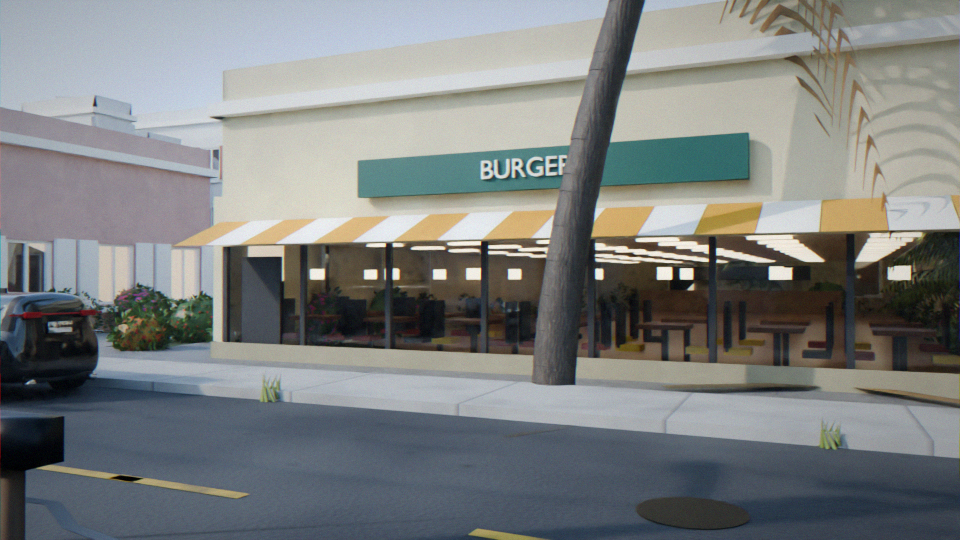
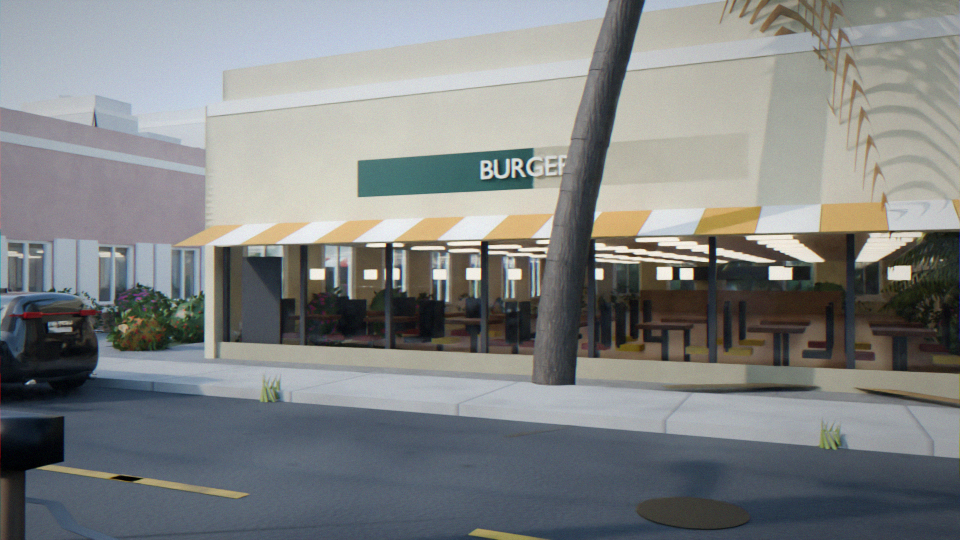
Furnished interiors in every home, apartment and upper floor (real wall openings, floor slabs, living/kitchen/dining/bedroom furniture, lights, clear window glass); park path flush with the lawn
Claude-Session: https://claude.ai/code/session_01PWmpu53kThn7KFGp88wUgC

diff --git a/costa-verde/tools/blender/detail_town.py b/costa-verde/tools/blender/detail_town.py
@@ -385,6 +385,100 @@ def interior(m, poly, kind, rng, ceil):
         m.box("wood", (x1 - 5, 2.0, z0 + 3.5), U, 6, 4, 2.2, (230, 230, 226))  # checkout
 
 
+HOLLOW = ("house", "stucco", "shack", "deco", "midrise", "campus")  # styles built as real walls with openings and furnished floors
+
+
+def skin(m, e, y0_, y1_, openings, wall_col, ext=0.9):
+    """Wall of one edge between y0_ and y1_ built from panels around openings [(centre, width, bottom, top)], 0.9 thick
+    outward from the wall line; ends run past the corners so neighbouring walls close up."""
+    a, _, u, n, L = e
+    cuts = sorted({y0_, y1_} | {max(y0_, min(y1_, v)) for c_, w_, bt, tp in openings for v in (bt, tp)})
+    for ya, yb_ in zip(cuts, cuts[1:]):
+        if yb_ - ya < 0.05:
+            continue
+        gaps = sorted((c_ - w_ / 2, c_ + w_ / 2) for c_, w_, bt, tp in openings if bt <= ya + 0.01 and tp >= yb_ - 0.01)
+        x = -ext
+        for g0, g1 in gaps + [(L + ext, L + ext)]:
+            if g0 > x + 0.05:
+                mid = (x + g0) / 2
+                m.box("wall", (a[0] + u[0] * mid + n[0] * 0.45, (ya + yb_) / 2, a[1] + u[1] * mid + n[1] * 0.45), u, g0 - x, yb_ - ya, 0.9, wall_col)
+            x = max(x, g1)
+
+
+FURN = [(150, 120, 90), (90, 100, 120), (200, 190, 170), (60, 70, 80), (170, 80, 60), (110, 130, 100)]
+
+
+def furnish(m, poly, yb, height, kind, rng):
+    """One floor of a home or office: floor, ceiling light, furniture along the walls and in the middle."""
+    xs, zs = [p[0] for p in poly], [p[1] for p in poly]
+    x0, x1, z0, z1 = min(xs) + 1.5, max(xs) - 1.5, min(zs) + 1.5, max(zs) - 1.5
+    if x1 - x0 < 6 or z1 - z0 < 6:
+        return
+    ok = lambda x, z: inside(poly, x, z) and x0 < x < x1 and z0 < z < z1  # noqa: E731
+    U = (1, 0)
+    m.face("floor", [(x, yb + 0.35, z) for x, z in poly][::-1], rng.choice([(150, 110, 80), (200, 196, 186), (120, 96, 72), (210, 206, 196)]))
+    m.face("trim", [(x, yb + height - 0.2, z) for x, z in poly], (238, 236, 230))  # ceiling
+    for gx in range(int(x0) + 4, int(x1) - 2, 12):
+        for gz in range(int(z0) + 4, int(z1) - 2, 12):
+            if ok(gx, gz):
+                m.box("lamp", (gx, yb + height - 0.45, gz), U, 1.4, 0.2, 1.4)  # ceiling light
+    y = yb + 0.35
+    cx, cz = (x0 + x1) / 2, (z0 + z1) / 2
+    if kind == "office":
+        for x in range(int(x0) + 3, int(x1) - 2, 8):
+            for z in range(int(z0) + 3, int(z1) - 2, 7):
+                if ok(x, z):
+                    m.box("wood", (x, y + 2.9, z), U, 4.6, 0.3, 2.4, (200, 196, 186))
+                    m.box("door", (x, y + 4.2, z + 0.6), U, 1.8, 1.3, 0.15, (20, 20, 22))
+                    m.box("fabric", (x, y + 2.0, z - 1.8), U, 1.7, 2.4, 1.7, (30, 30, 34))
+        return
+    # living area: sofa facing a TV unit, coffee table, rug
+    if ok(cx - 4, z0 + 2):
+        col = rng.choice(FURN)
+        m.box("fabric", (cx - 4, y + 1.2, z0 + 2.2), U, 7, 2.4, 2.6, col)  # sofa seat
+        m.box("fabric", (cx - 4, y + 2.6, z0 + 1.3), U, 7, 2.8, 0.8, col)  # back
+        m.box("fabric", (cx - 4, y + 0.05, z0 + 5.5), U, 8, 0.1, 5, rng.choice(FURN))  # rug
+        m.box("wood", (cx - 4, y + 1.0, z0 + 5.5), U, 3.5, 0.3, 2, (110, 80, 60))  # coffee table
+        if ok(cx - 4, z0 + 9):
+            m.box("wood", (cx - 4, y + 1.2, z0 + 9.2), U, 6, 2.4, 1.4, (60, 50, 44))  # TV unit
+            m.box("door", (cx - 4, y + 4.0, z0 + 9.3), U, 5, 3, 0.2, (15, 15, 17))  # TV
+    # dining table with chairs
+    if ok(cx + 5, cz):
+        m.box("wood", (cx + 5, y + 2.6, cz), U, 5, 0.3, 3, (140, 100, 70))
+        for dx in (-1.6, 1.6):
+            for dz in (-2.3, 2.3):
+                m.box("wood", (cx + 5 + dx, y + 1.5, cz + dz), U, 1.4, 0.3, 1.4, (120, 90, 64))
+                m.box("wood", (cx + 5 + dx, y + 2.6, cz + dz * 1.25), U, 1.4, 2.2, 0.25, (120, 90, 64))
+    # kitchen run along the back wall with upper cabinets and a fridge
+    for x in range(int(x0) + 1, int(min(x1, x0 + 14)), 3):
+        if ok(x + 1.5, z1 - 1.2):
+            m.box("wood", (x + 1.5, y + 1.6, z1 - 1.2), U, 3, 3.2, 2.2, (236, 234, 228))
+            m.box("metal", (x + 1.5, y + 3.25, z1 - 1.2), U, 3, 0.15, 2.3, (60, 60, 64))  # counter top
+            m.box("wood", (x + 1.5, y + 6.4, z1 - 0.8), U, 3, 2.4, 1.4, (236, 234, 228))
+    if ok(x0 + 16, z1 - 1.4):
+        m.box("metal", (x0 + 16, y + 3.6, z1 - 1.4), U, 3, 7.2, 2.6, (210, 212, 214))  # fridge
+    # bed with nightstands and a wardrobe in the far corner
+    bx, bz = x1 - 5, cz + 2
+    if ok(bx, bz) and ok(bx, bz + 5):
+        m.box("wood", (bx, y + 0.9, bz), U, 5.6, 1.8, 7, (120, 96, 72))
+        m.box("fabric", (bx, y + 2.0, bz), U, 5.4, 0.6, 6.8, (236, 236, 230))  # mattress
+        m.box("fabric", (bx, y + 2.4, bz + 3.0), U, 4.8, 0.5, 1.2, (250, 250, 246))  # pillows
+        m.box("fabric", (bx, y + 2.35, bz - 1.0), U, 5.6, 0.25, 4.4, rng.choice(FURN))  # duvet
+        m.box("wood", (bx, y + 3.4, bz + 3.6), U, 5.8, 3.4, 0.4, (100, 80, 60))  # headboard
+        for side in (-1, 1):
+            m.box("wood", (bx + side * 3.6, y + 1.1, bz + 3), U, 1.4, 2.2, 1.4, (100, 80, 60))
+    if ok(x1 - 1.4, z0 + 4):
+        m.box("wood", (x1 - 1.4, y + 3.8, z0 + 4), U, 2.2, 7.6, 4.5, (200, 190, 170))  # wardrobe
+    for _ in range(rng.randint(1, 3)):  # plants and a floor lamp
+        px, pz = rng.uniform(x0 + 1, x1 - 1), rng.uniform(z0 + 1, z1 - 1)
+        if ok(px, pz):
+            m.box("door", (px, y + 0.8, pz), U, 1.2, 1.6, 1.2, (150, 90, 60))
+            m.box("fabric", (px, y + 2.6, pz), U, 2.0, 2.4, 2.0, (60, 110, 50))
+    if ok(x0 + 2, z0 + 2):
+        m.box("pole", (x0 + 2, y + 3, z0 + 2), U, 0.2, 6, 0.2)
+        m.box("lamp", (x0 + 2, y + 6.2, z0 + 2), U, 1.2, 0.8, 1.2)
+
+
 def building(idx, b):
     rng = random.Random(idx)
     c, s = math.cos(math.radians(b["rot"])), math.sin(math.radians(b["rot"]))
@@ -416,19 +510,30 @@ def building(idx, b):
             continue
         shop_part = style in ("stucco", "shack") and pi == 0 and y0 == 0 and h >= 11 and any(e[3][1] < -0.7 for e in edges(poly))
         CEIL = 10.0
-        if shop_part:  # ground floor is a real room open to the street through glass; walls only on the other sides
-            m.prism("wall", poly, CEIL, y0 + h, wall_col, top=False)
-            for e in edges(poly):
-                if e[3][1] >= -0.7:
-                    (ax_, az_), (bx_, bz_) = e[0], e[1]
-                    m.face("wall", [(ax_, -3, az_), (bx_, -3, bz_), (bx_, CEIL, bz_), (ax_, CEIL, az_)], wall_col)
+        hollow = style in HOLLOW
+        if shop_part:  # ground floor is a real room open to the street through glass
             interior(m, poly, interior_kind(b.get("use")), rng, CEIL)
-        else:
+        if not hollow:
             m.prism("wall", poly, y0 - 3, y0 + h, wall_col, top=False)
+        else:  # walls come from skins (with real openings); short edges and the footing get plain wall here
+            for i_ in range(len(poly)):
+                (ax_, az_), (bx_, bz_) = poly[i_], poly[(i_ + 1) % len(poly)]
+                if math.dist((ax_, az_), (bx_, bz_)) < 3:
+                    m.face("wall", [(ax_, y0 - 3, az_), (bx_, y0 - 3, bz_), (bx_, y0 + h, bz_), (ax_, y0 + h, az_)], wall_col)
+            for e in edges(poly):
+                skin(m, e, y0 - 3, y0, [], wall_col)
         if y0 == 0 and style != "tower":  # base course: a slightly proud, darker plinth
             big = [(x * (1 + 0.6 / max(1, abs(x))) if abs(x) > 0.1 else x, z * (1 + 0.6 / max(1, abs(z))) if abs(z) > 0.1 else z) for x, z in poly]
             m.prism("wall", big, -1, 1.8, tuple(int(v * 0.72) for v in wall_col), top=False)
         floors = max(1, int(h // fh))
+        if hollow:  # furnish every floor (shop ground floors are furnished as shops above)
+            for f in range(floors):
+                yb_f = y0 + f * fh
+                top_f = (y0 + h) if f == floors - 1 else yb_f + fh
+                if f > 0 or not shop_part:
+                    if f > 0:
+                        m.prism("concrete", poly, yb_f - 0.4, yb_f + 0.3, top=True)  # floor slab
+                    furnish(m, poly, yb_f, top_f - yb_f, "office" if style == "campus" else "home", rng)
         for e in edges(poly):
             a, _, u, n, L = e
             street = n[1] < -0.7  # local -z faces the street
@@ -455,6 +560,7 @@ def building(idx, b):
                     dx = L / 2 - 4
                     m.box("door", (cx + u[0] * dx + n[0] * 0.1, 4.2, cz + u[1] * dx + n[1] * 0.1), u, 3.6, 8.2, 0.25, (40, 40, 42))
                     m.box("wall", (cx + n[0] * 0.3, (CEIL + 9.1) / 2, cz + n[1] * 0.3), u, L, CEIL - 9.1, 0.8, wall_col)  # sign band
+                    skin(m, e, CEIL, (y0 + h) if floors == 1 else fh, [], wall_col)  # wall between the shop ceiling and the floor above
                     acol = rng.choice(AWNING)
                     for k in range(max(1, int(L // 3))):
                         t = (k + 0.5) / max(1, int(L // 3))
@@ -463,22 +569,21 @@ def building(idx, b):
                         m.face("awning", [(x - u[0] * 1.5 + n[0] * 0.2, 11, z - u[1] * 1.5 + n[1] * 0.2), (x + u[0] * 1.5 + n[0] * 0.2, 11, z + u[1] * 1.5 + n[1] * 0.2),
                                           (x + u[0] * 1.5 + n[0] * 5, 9, z + u[1] * 1.5 + n[1] * 5), (x - u[0] * 1.5 + n[0] * 5, 9, z - u[1] * 1.5 + n[1] * 5)], col)
                     continue
-                house_front = style == "house" and street and f == 0
-                if not house_front:  # outer skin 0.9 proud: spandrels below/above the windows and piers between them
-                    sk = lambda d0, d1, y_a, y_b: m.box("wall", (a[0] + u[0] * (d0 + d1) / 2 + n[0] * 0.45, (y_a + y_b) / 2,  # noqa: E731
-                                                              a[1] + u[1] * (d0 + d1) / 2 + n[1] * 0.45), u, d1 - d0, y_b - y_a, 0.9, wall_col)
-                    top_y = min(yb + fh, y0 + h)
-                    sk(0, L, yb, yb + sill)
-                    if top_y > yb + sill + wh:
-                        sk(0, L, yb + sill + wh, top_y)
-                    prev = 0.0
+                top_y = (y0 + h) if f == floors - 1 else min(yb + fh, y0 + h)
+                if True:  # outer skin 0.9 proud with real openings for windows, doors and garages
+                    ops = []
                     for j in range(nb):
                         wc = L * (j + 0.5) / nb  # window centre (not `c`: the transform closes over the rotation's cos)
-                        if wc - ww / 2 - 0.6 > prev:
-                            sk(prev, wc - ww / 2 - 0.6, yb + sill, yb + sill + wh)
-                        prev = wc + ww / 2 + 0.6
-                    if L > prev:
-                        sk(prev, L, yb + sill, yb + sill + wh)
+                        is_door = style == "house" and street and pi == 0 and j == nb // 2 and f == 0
+                        is_gar = style == "house" and street and pi == 1 and f == 0 and b.get("type") in ("ranch", "l_ranch")
+                        if is_gar:
+                            if j == 0:
+                                ops.append((L / 2, min(L - 3, 16) + 0.6, yb, yb + 9.2))
+                        elif is_door:
+                            ops.append((wc, 4.2, yb, yb + 8.4))
+                        else:
+                            ops.append((wc, ww + 1.2, yb + sill, yb + sill + wh))
+                    skin(m, e, yb, top_y, ops, wall_col)
                 for j in range(nb):
                     along = L * (j + 0.5) / nb
                     if style in ("stucco", "midrise") and f > 0 and rng.random() < 0.12:  # window AC unit

diff --git a/costa-verde/tools/blender/realism.py b/costa-verde/tools/blender/realism.py
@@ -1229,7 +1229,7 @@ def photo_upgrade():
     gravel_roof = photo("photo_roof_flat", "Gravel043", 8, tint=(170, 166, 158))[0]
     asph = photo("photo_asphalt", "Asphalt031", 22, bump=0.4)[0]
     conc = photo("photo_concrete", "Concrete034", 16, bump=0.3)[0]
-    swaps = {"real_wall": walls, "real_roof": roof, "real_concrete": conc, "real_asphalt": asph, "real_glass": mat_window_interior(),
+    swaps = {"real_wall": walls, "real_roof": roof, "real_concrete": conc, "real_asphalt": asph, "real_glass": mat_window_glass(),
              "real_roof_flat": gravel_roof}
     for o in bpy.data.objects:
         if o.type == "MESH":
@@ -1314,7 +1314,13 @@ def landcover(detailed, street_area, zone, gy, rng, palms, oaks, ground=None):
     _slab("stalls", unary_union(stalls).intersection(unary_union(paved)), gy + 0.32, gy + 0.36, mat_paint("stall_paint", (236, 236, 230)))
     _slab("mulch", unary_union(mulch), gy - 0.5, gy + 0.18, photo("photo_mulch", "Ground037", 6, tint=(120, 84, 60))[0])
     _slab("dirt", unary_union(dirt), gy - 0.5, gy + 0.08, photo("photo_dirt", "Ground037", 10, tint=(190, 170, 140))[0])
-    _slab("paths", unary_union(paths) if paths else Polygon(), gy - 0.5, gy + 0.2, bpy.data.materials.get("photo_concrete") or mat_concrete())
+    # park footpath flush with the lawn (a few hundredths above the soil, below the grass blades)
+    pmat = bpy.data.materials.get("photo_concrete") or mat_concrete()
+    for k, pth in enumerate(paths):  # each path at the real ground height along it
+        pts = list(pth.exterior.coords) if hasattr(pth, "exterior") else [c for g in pth.geoms for c in g.exterior.coords]
+        hs = [ground(x, z) for x, z in pts] if ground else [gy]
+        top = sum(hs) / len(hs) + 0.15  # average ground: flush within the lawn's small bumps
+        _slab(f"path{k}", pth, top - 1.2, top, pmat)
     fence_mat = photo("photo_fence", "WoodSiding011", 6, tint=(190, 160, 120))[0]
     verts, faces = [], []
     for fl in fences:
@@ -1690,4 +1696,15 @@ def mat_clear_glass():
     b.inputs["Transmission Weight"].default_value = 1.0
     b.inputs["Roughness"].default_value = 0.02
     b.inputs["IOR"].default_value = 1.45
+    return m
+
+
+def mat_window_glass():
+    """House and apartment windows: clear, slightly tinted glass with reflections, so the furnished rooms show."""
+    m, nt, b = _nodes("real_window_glass")
+    b.inputs["Base Color"].default_value = (0.75, 0.82, 0.85, 1)
+    b.inputs["Transmission Weight"].default_value = 0.92
+    b.inputs["Roughness"].default_value = 0.02
+    b.inputs["IOR"].default_value = 1.5
+    b.inputs["Coat Weight"].default_value = 0.5
     return m
